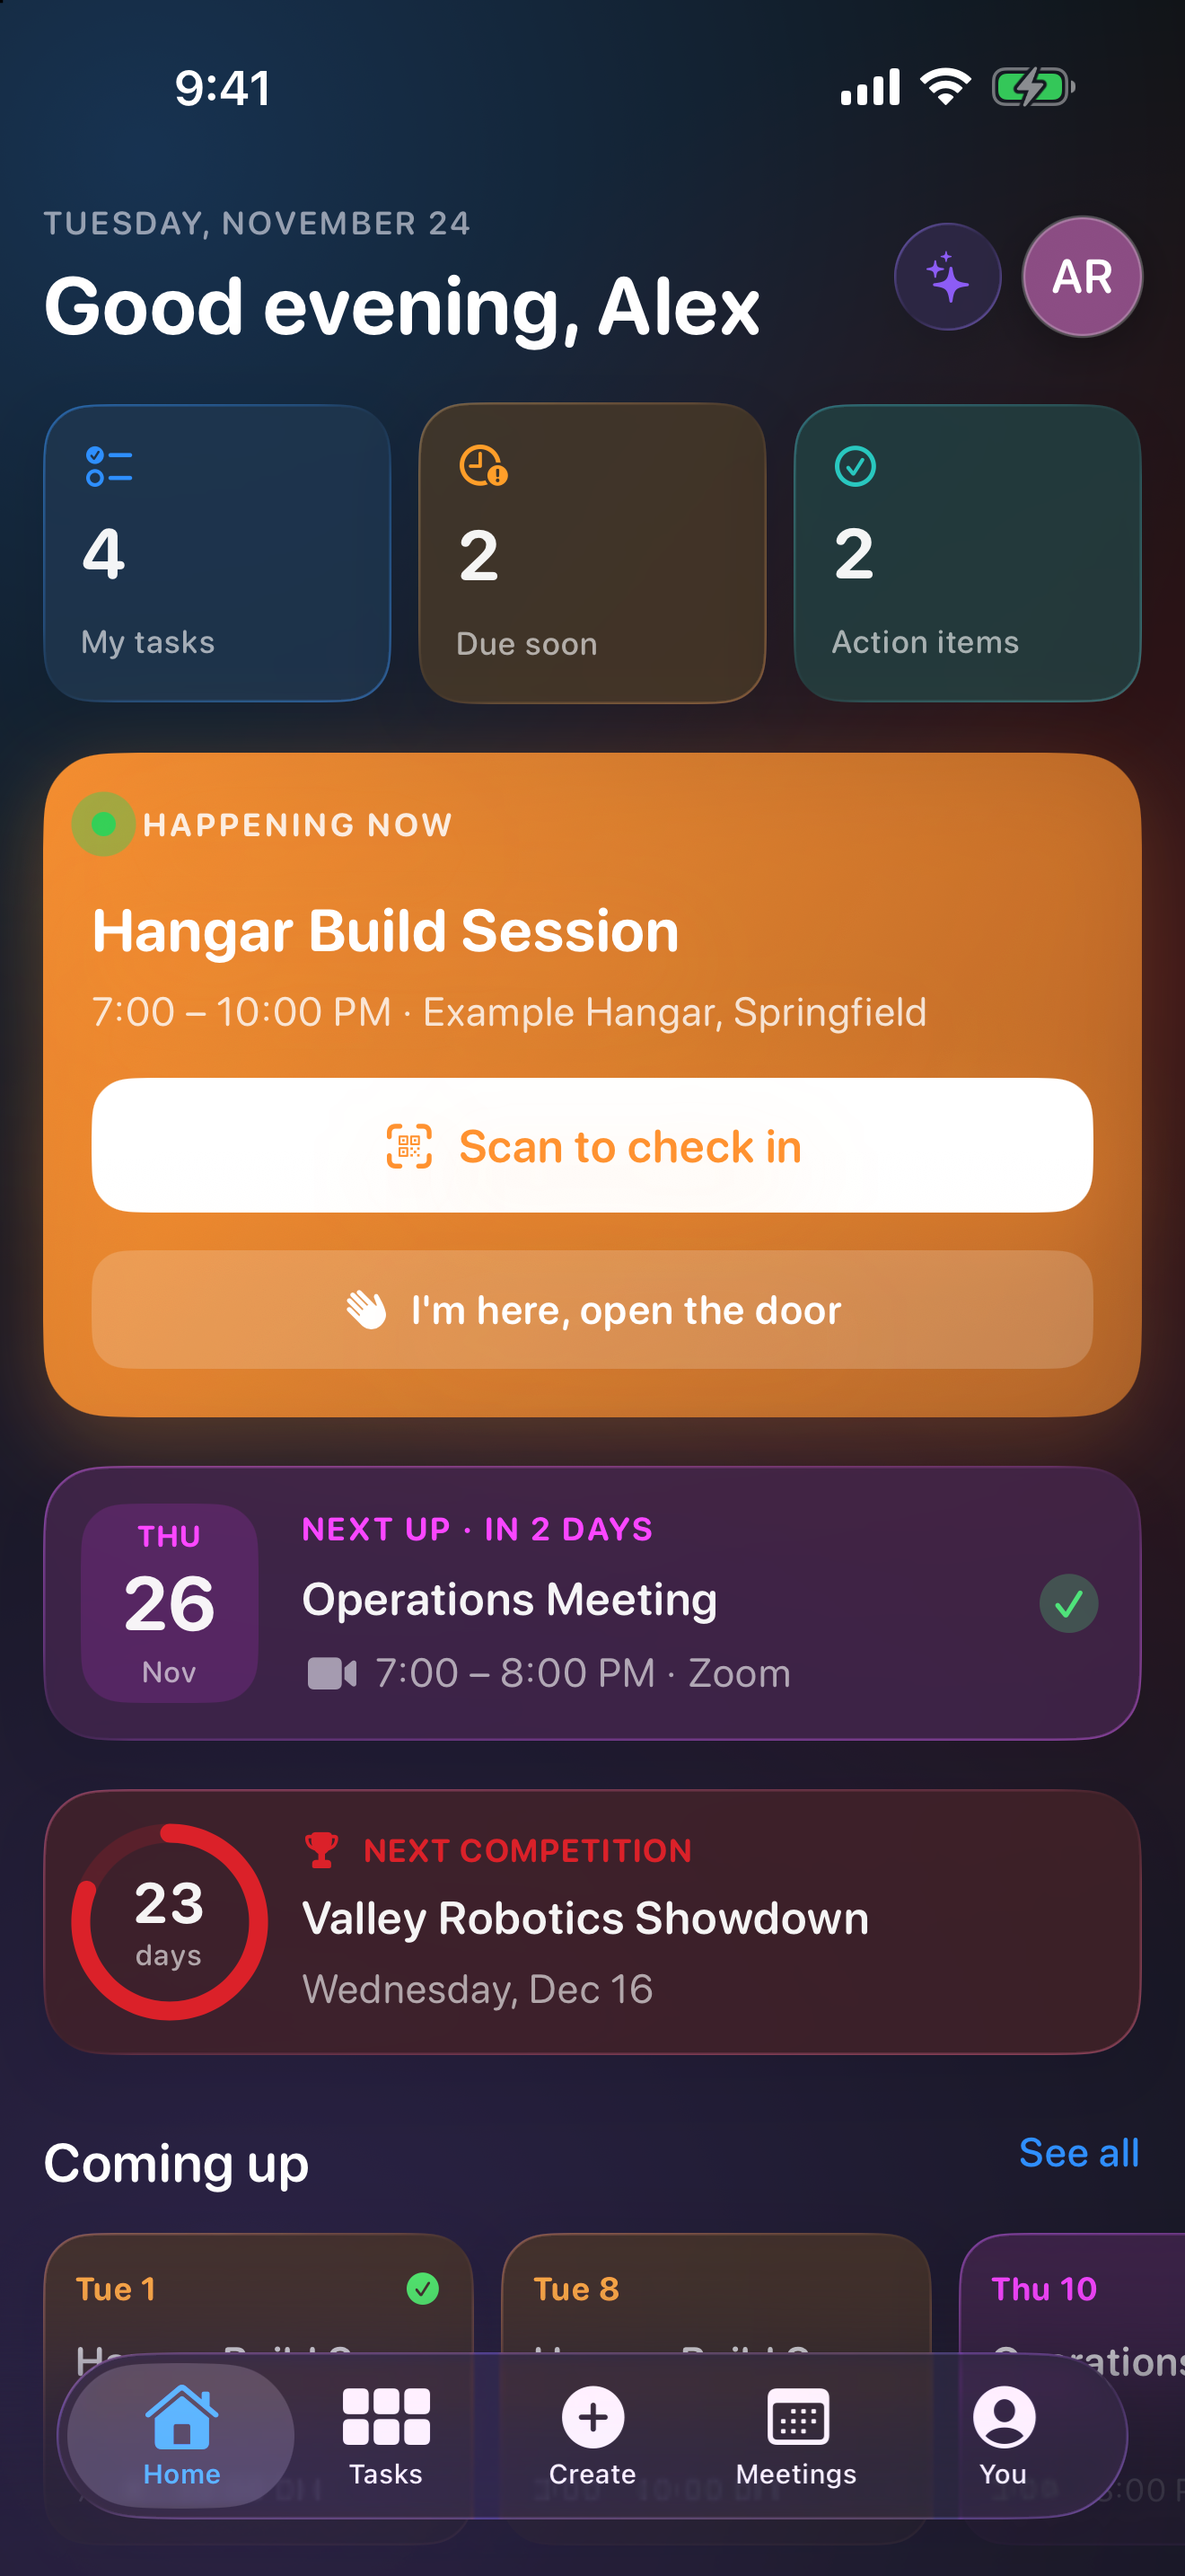
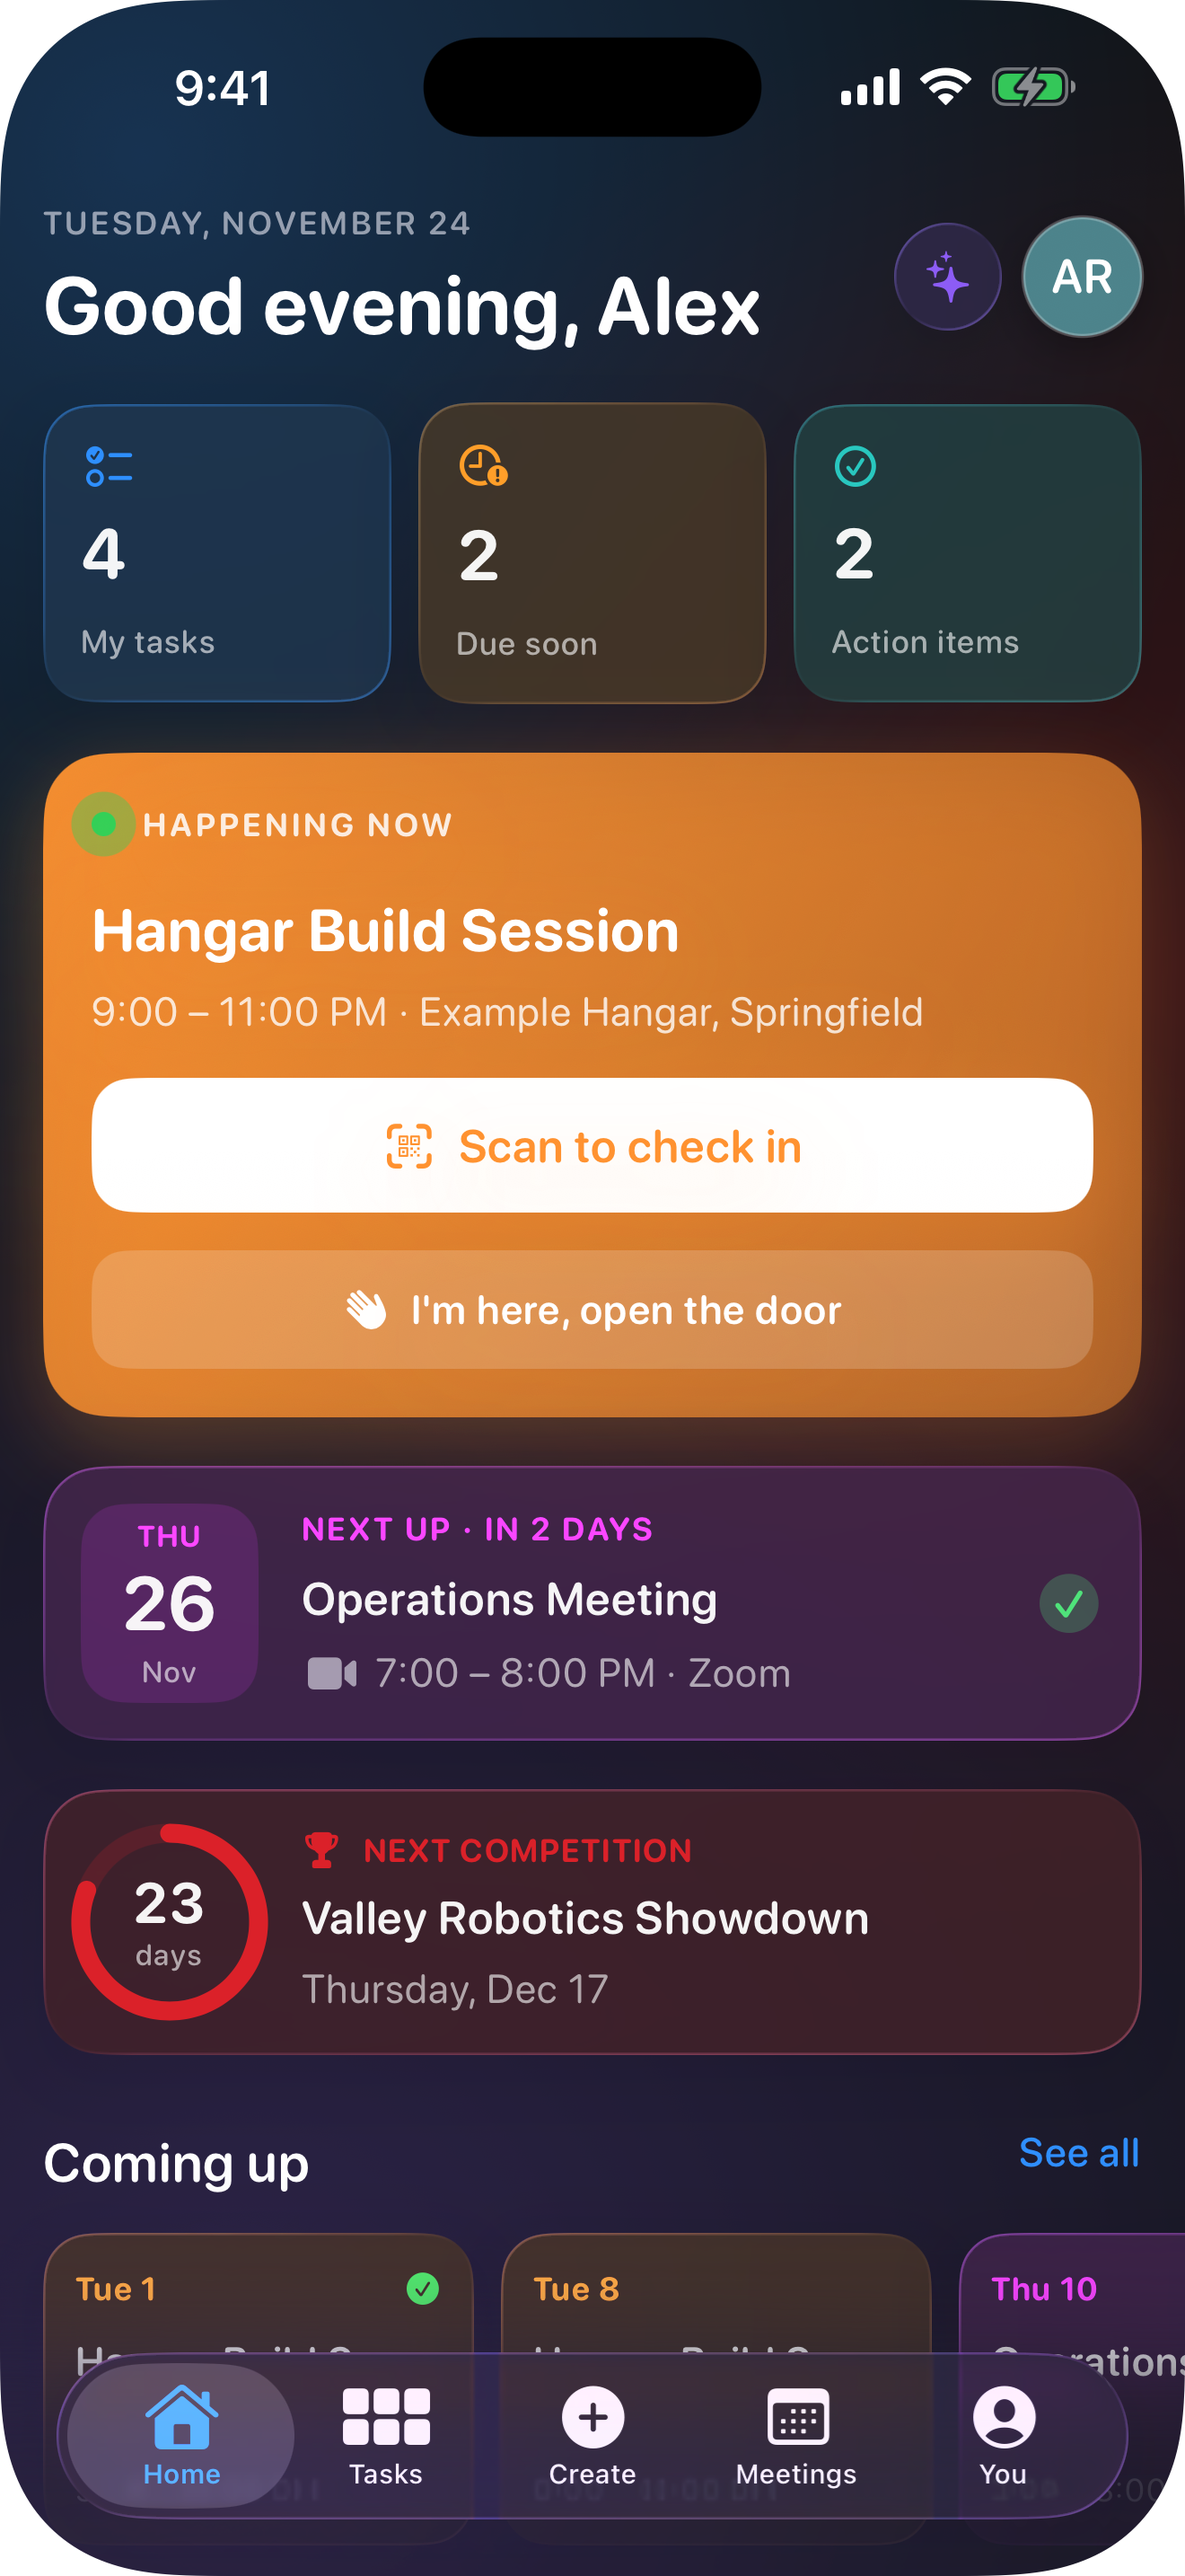
App Store art: header and search-results images laid out for how the App Store crops them; screenshots retaken (no empty Grants column on My Work, competition on its real day); My Work shows a board-only column only when one of my tasks is in it

diff --git a/tools/make-banners.swift b/tools/make-banners.swift
@@ -40,47 +40,53 @@ func phone(_ ctx: CGContext, _ img: NSImage, center: CGPoint, height: CGFloat, a
     ctx.restoreGState()
 }
 
-func text(_ s: String, size: CGFloat, weight: NSFont.Weight, color: NSColor, at p: CGPoint, width: CGFloat) {
+func attributed(_ s: String, size: CGFloat, weight: NSFont.Weight, color: NSColor) -> NSAttributedString {
     let para = NSMutableParagraphStyle(); para.lineBreakMode = .byWordWrapping
     let font = NSFont.systemFont(ofSize: size, weight: weight)
     let rounded = font.fontDescriptor.withDesign(.rounded).flatMap { NSFont(descriptor: $0, size: size) } ?? font
-    NSAttributedString(string: s, attributes: [.font: rounded, .foregroundColor: color, .paragraphStyle: para])
-        .draw(with: CGRect(x: p.x, y: p.y, width: width, height: size * 3), options: [.usesLineFragmentOrigin])
+    return NSAttributedString(string: s, attributes: [.font: rounded, .foregroundColor: color, .paragraphStyle: para])
 }
 
-func brand(_ ctx: CGContext, x: CGFloat, top: CGFloat, scale: CGFloat, width: CGFloat) {
-    let s = 220 * scale
+/// Draws a text block whose top edge sits at `top` (y grows upward) and returns its bottom edge.
+func text(_ s: String, size: CGFloat, weight: NSFont.Weight, color: NSColor, x: CGFloat, top: CGFloat, width: CGFloat) -> CGFloat {
+    let a = attributed(s, size: size, weight: weight, color: color)
+    let h = ceil(a.boundingRect(with: CGSize(width: width, height: 10_000), options: [.usesLineFragmentOrigin]).height)
+    a.draw(with: CGRect(x: x, y: top - h, width: width, height: h), options: [.usesLineFragmentOrigin])
+    return top - h
+}
+
+/// Logo, name and one line about the app, as a block whose top is `top`. Returns the block's height.
+@discardableResult
+func brand(_ ctx: CGContext, x: CGFloat, top: CGFloat, logo size: CGFloat, title: CGFloat, sub: CGFloat, width: CGFloat) -> CGFloat {
     ctx.saveGState()
-    ctx.addEllipse(in: CGRect(x: x, y: top - s, width: s, height: s)); ctx.clip()
-    logo.draw(in: CGRect(x: x, y: top - s, width: s, height: s))
+    ctx.addEllipse(in: CGRect(x: x, y: top - size, width: size, height: size)); ctx.clip()
+    logo.draw(in: CGRect(x: x, y: top - size, width: size, height: size))
     ctx.restoreGState()
-    // text() draws from the top of a box 3 lines tall, so place each box's top just under what's above it
-    let titleTop = top - s - 60 * scale
-    text("SOR Team Board", size: 150 * scale, weight: .heavy, color: .white, at: CGPoint(x: x, y: titleTop - 450 * scale), width: width)
-    let subTop = titleTop - 200 * scale
-    text("Tasks, meetings and check-ins for FRC Team 6059 System Overload.", size: 64 * scale, weight: .medium,
-         color: NSColor(white: 1, alpha: 0.72), at: CGPoint(x: x, y: subTop - 192 * scale), width: width)
+    let t = text("SOR Team Board", size: title, weight: .heavy, color: .white, x: x, top: top - size - title * 0.35, width: width)
+    let b = text("Tasks, meetings and check-ins for FRC Team 6059 System Overload.", size: sub, weight: .medium,
+                 color: NSColor(white: 1, alpha: 0.75), x: x, top: t - sub * 0.45, width: width)
+    return top - b
 }
 
 func save(_ rep: NSBitmapImageRep, _ name: String) {
     try! rep.representation(using: .png, properties: [:])!.write(to: URL(fileURLWithPath: "\(dir)/\(name)"))
 }
 
-// Header: 21:9, words on the left, three phones on the right
+// Header: 21:9. The App Store crops it to about 3:2 on iPhone (centered) and puts the back and share buttons over the
+// top, so the words and the main phone sit in the middle 60% and below the top fifth; the outer edges are only background.
 save(canvas(3840, 1646) { ctx in
     background(ctx, 3840, 1646)
-    brand(ctx, x: 220, top: 1646 - 260, scale: 1, width: 1500)
-    phone(ctx, shots[1], center: CGPoint(x: 2350, y: 760), height: 1500, angle: -4)
-    phone(ctx, shots[2], center: CGPoint(x: 3420, y: 760), height: 1500, angle: 4)
-    phone(ctx, shots[0], center: CGPoint(x: 2890, y: 800), height: 1640, angle: 0)
+    phone(ctx, shots[1], center: CGPoint(x: 3130, y: 700), height: 1380, angle: 5)
+    phone(ctx, shots[0], center: CGPoint(x: 2470, y: 760), height: 1560, angle: 0)
+    brand(ctx, x: 760, top: 1646 - 420, logo: 190, title: 140, sub: 64, width: 1180)
 }, "header.png")
 
-// Search results: 3:2, words on top, three phones below
+// Search results: 3:2. The search card shows it wider than 3:2, keeping the top part, so the words and the phones'
+// screens sit in the top half; the phones run off the bottom edge on purpose.
 save(canvas(3840, 2560) { ctx in
     background(ctx, 3840, 2560)
-    brand(ctx, x: 260, top: 2560 - 170, scale: 0.85, width: 3300)
-    phone(ctx, shots[3], center: CGPoint(x: 900, y: 760), height: 1450, angle: -3)
-    phone(ctx, shots[4], center: CGPoint(x: 2940, y: 760), height: 1450, angle: 3)
-    phone(ctx, shots[0], center: CGPoint(x: 1920, y: 800), height: 1580, angle: 0)
+    phone(ctx, shots[3], center: CGPoint(x: 3360, y: 1180), height: 2250, angle: 4)
+    phone(ctx, shots[0], center: CGPoint(x: 2560, y: 1250), height: 2400, angle: 0)
+    brand(ctx, x: 260, top: 2560 - 250, logo: 260, title: 190, sub: 92, width: 1650)
 }, "search-results.png")
 print("done")

diff --git a/SOR/Views/TasksView.swift b/SOR/Views/TasksView.swift
@@ -85,7 +85,11 @@ struct BoardView: View {
 
     private var isMine: Bool { boardId == "mine" }
     private var board: Subteam? { model.subteam(boardId) }
-    private var cols: [BoardColumn] { model.columns(for: isMine ? "all" : boardId) }
+    /// My Work shows the shared columns, plus a board-only one (Business's Grants) only when one of my tasks sits in it: boardColumns in mod-board.
+    private var cols: [BoardColumn] {
+        guard isMine else { return model.columns(for: boardId) }
+        return model.columns(for: "all").filter { c in c.subteamIds.isEmpty || !tasks(in: c.id).isEmpty }
+    }
 
     private func tasks(in col: String) -> [TaskItem] {
         model.tasks
